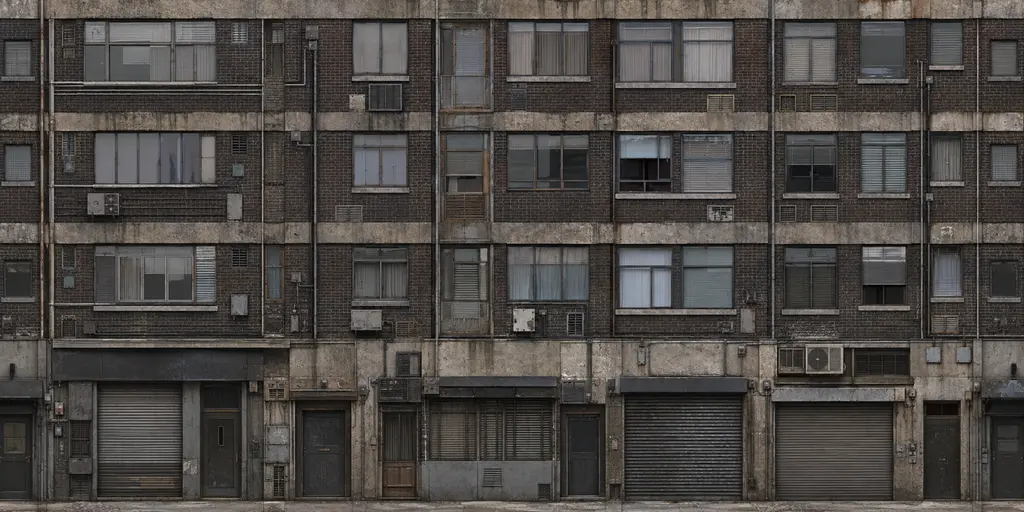
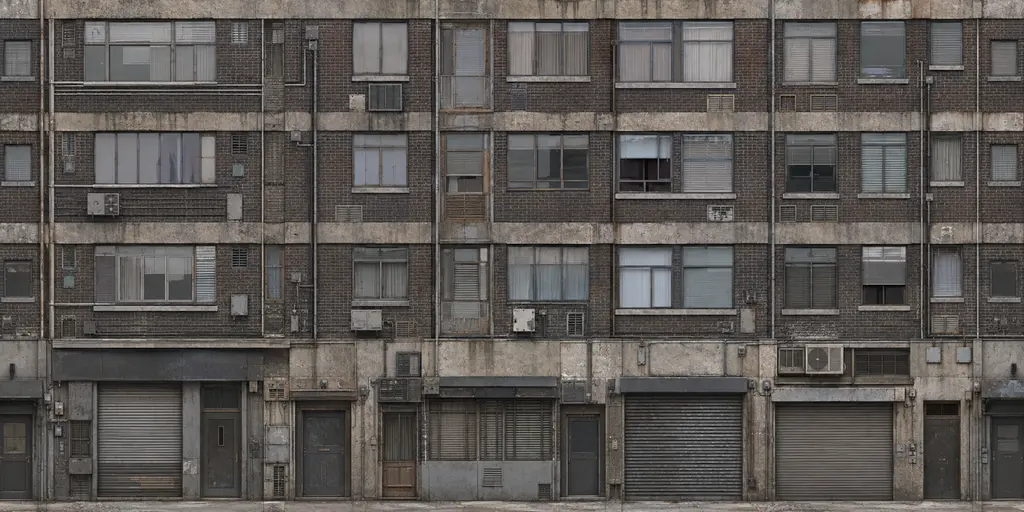
Lift natural facade detail and tame wet highlights

diff --git a/src/world/createCyberCity.js b/src/world/createCyberCity.js
@@ -117,11 +117,11 @@ function addSky(scene) {
 }
 
 function addLighting(scene, isQuest) {
-  const hemisphere = new THREE.HemisphereLight(0x98acb0, 0x211815, 1.05);
+  const hemisphere = new THREE.HemisphereLight(0x98acb0, 0x211815, 1.15);
   hemisphere.name = 'OVERCAST_AMBIENT';
   scene.add(hemisphere);
 
-  const cityBounce = new THREE.AmbientLight(0x71888b, 0.62);
+  const cityBounce = new THREE.AmbientLight(0x71888b, 0.82);
   cityBounce.name = 'CITY_SKY_BOUNCE';
   scene.add(cityBounce);
 
@@ -303,7 +303,7 @@ function addLamp(root, materials, side, z, index, glowTexture, isQuest) {
   root.add(sprite);
   const hasRealLight = isQuest ? [1, 4, 5].includes(index) : index % 2 === 0 || index === 5;
   if (hasRealLight) {
-    const light = new THREE.PointLight(lampColor, index % 4 === 3 ? 22 : 32, 9.5, 2.2);
+    const light = new THREE.PointLight(lampColor, index % 4 === 3 ? 14 : 20, 9.5, 2.2);
     light.position.copy(sprite.position);
     root.add(light);
   }

diff --git a/src/world/materialLibrary.js b/src/world/materialLibrary.js
@@ -75,9 +75,9 @@ export function createMaterialLibrary(renderer, { isQuest = false } = {}) {
       ...asphalt,
       color: 0x6b7072,
       bumpScale: 0.06,
-      roughness: 0.25,
-      metalness: 0.14,
-      envMapIntensity: 1.35,
+      roughness: 0.32,
+      metalness: 0.08,
+      envMapIntensity: 1.2,
     }),
     sidewalk: new THREE.MeshStandardMaterial({
       ...sidewalk,
